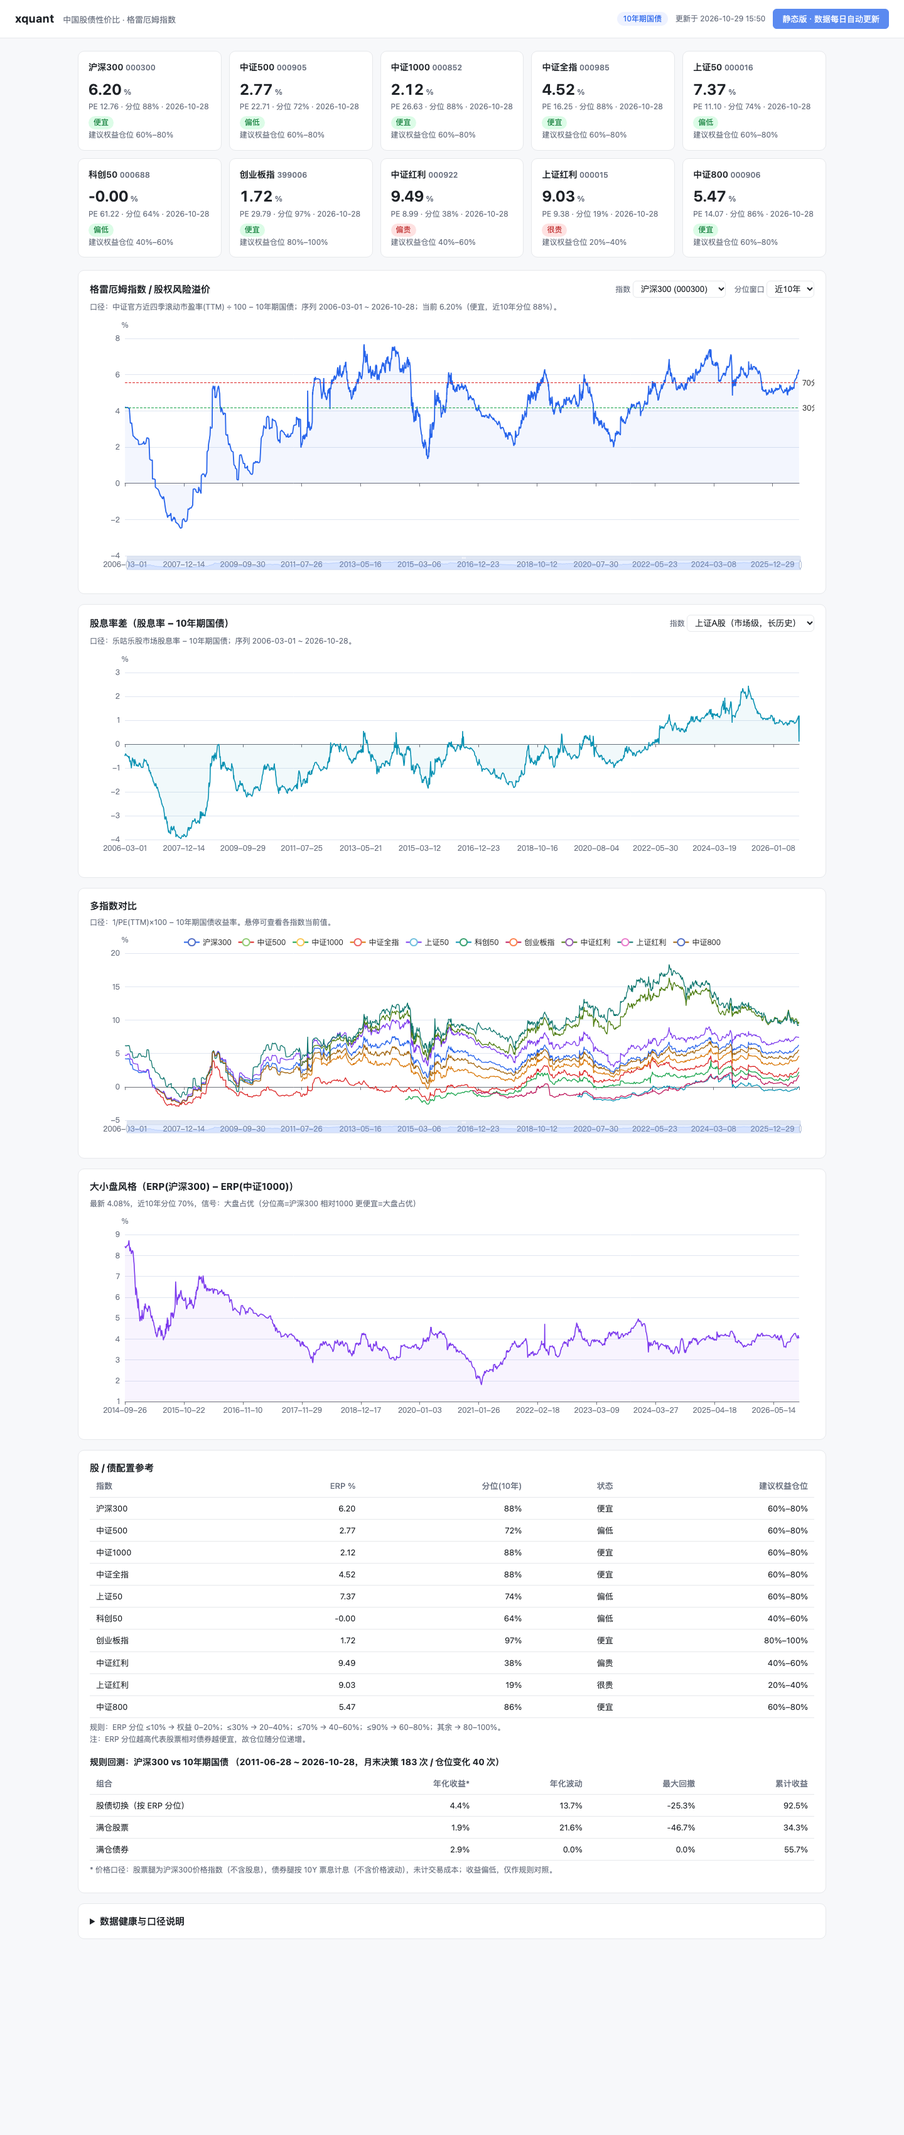
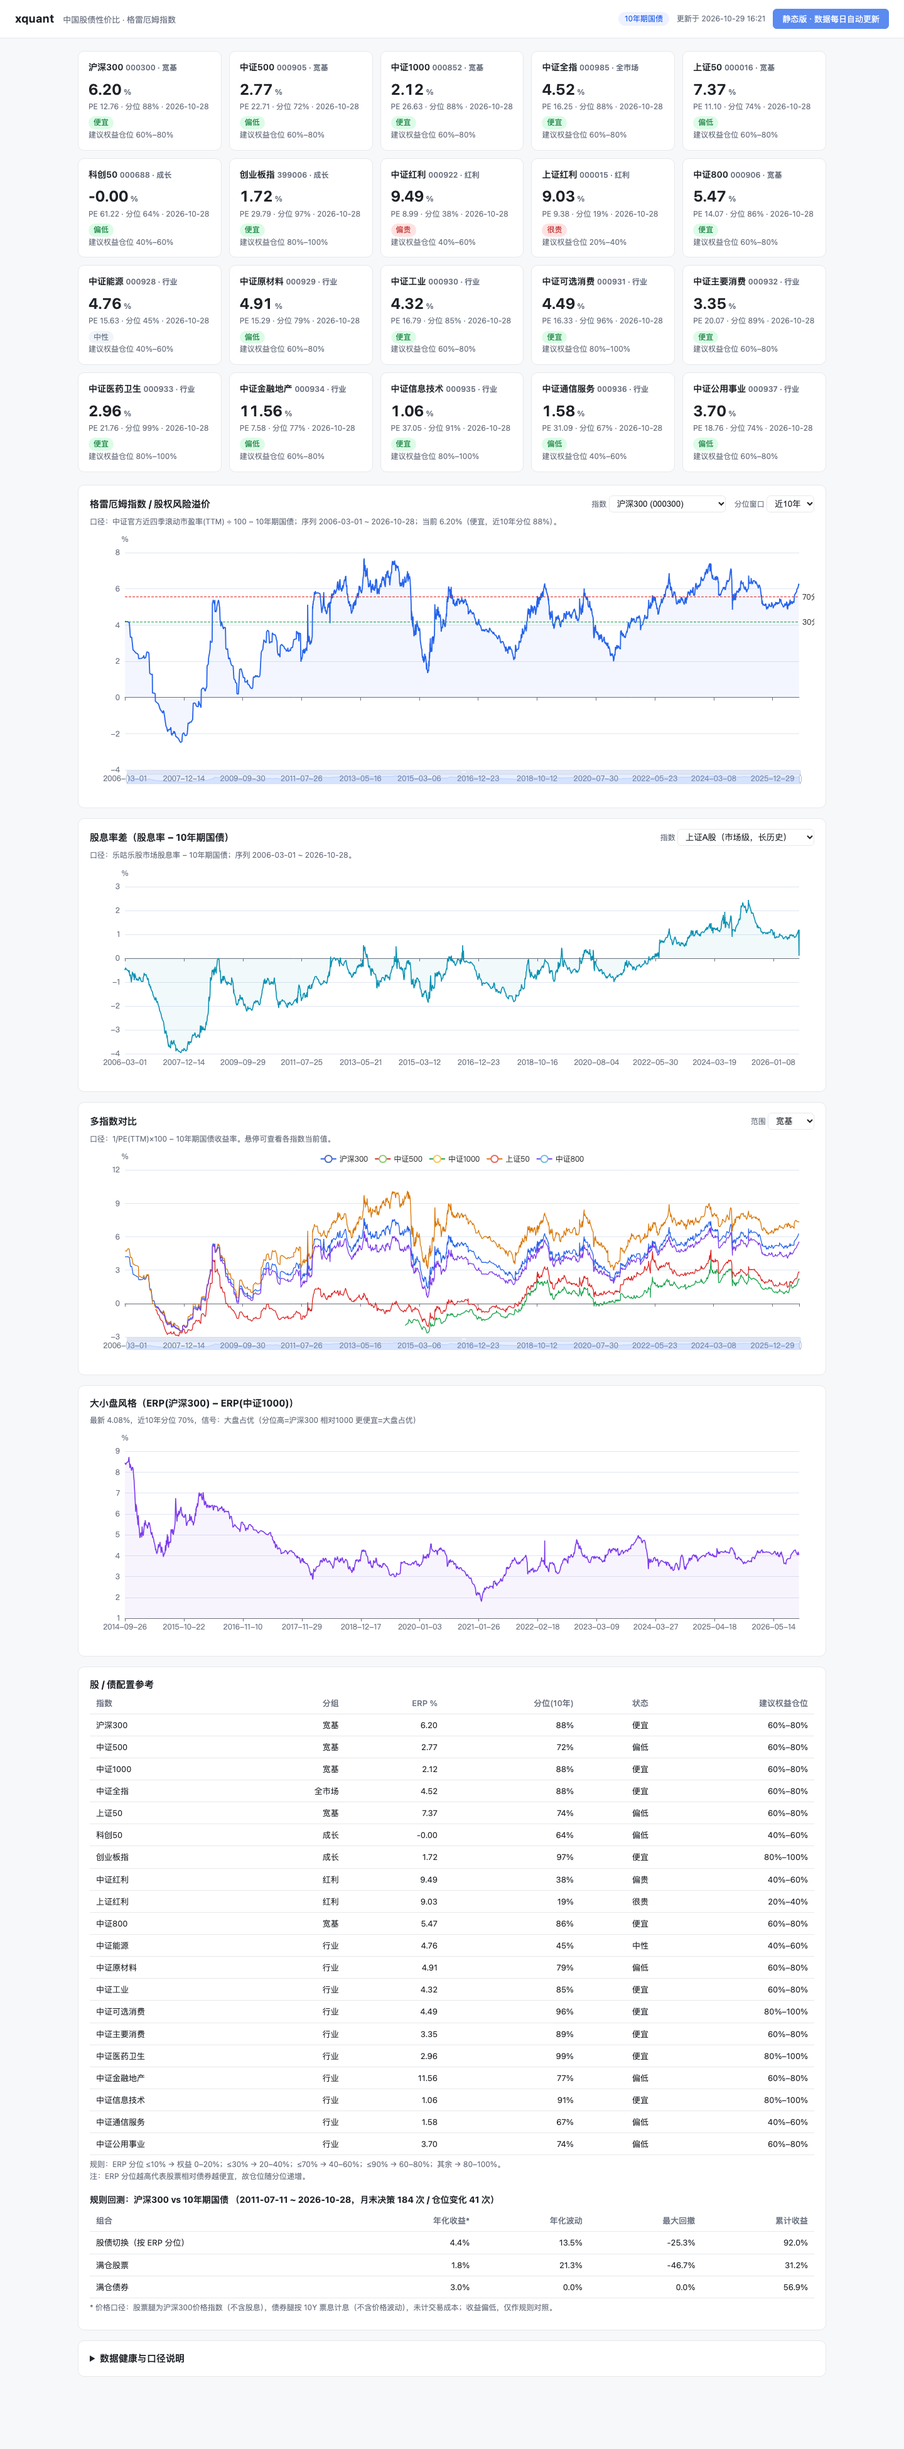
feat: 新增中证一级行业指数，价格与 PE 解耦入库
- parse_perf/peg 缺失时保留收盘价（修复沪深300 2012-01/02 等价格丢失），
  backfill 也补写 csindex_pe，历史价格可回溯到 2005
- 新增 10 个中证一级行业指数（000928-000937），分组为「行业」
- 卡片/配置表增加分组；ERP/股息率下拉按 optgroup 分组；
  多指数对比增加范围筛选（默认宽基，可切行业）
- 回测增加 1250 个交易日预热，避免 2006-2011 月频样本的早期信号失真
- 测试：parse_perf 保留空 PE 行；回测测试传 warmup

diff --git a/web/app.js b/web/app.js
@@ -60,7 +60,7 @@
       .map((i) => {
         const alloc = i.allocation ? `${i.allocation.equity_min}%–${i.allocation.equity_max}%` : "—";
         return `<div class="card">
-          <h3>${i.name} <span class="muted">${i.code}</span></h3>
+          <h3>${i.name} <span class="muted">${i.code} · ${i.group}</span></h3>
           <div class="value">${fmt(i.erp)}<span class="sub"> %</span></div>
           <div class="sub">PE ${fmt(i.pe)} · 分位 ${fmt(i.percentile, 0)}% · ${i.date || "—"}</div>
           <span class="badge ${tempClass(i.temperature)}">${i.temperature}</span>
@@ -184,11 +184,14 @@
 
   async function renderCompare() {
     const data = await dataCompare();
+    const groupEl = document.getElementById("compare-group");
+    const group = groupEl ? groupEl.value : "全部";
+    const list = data.series.filter((s) => group === "全部" || s.group === group);
     const palette = ["#2563eb", "#dc2626", "#16a34a", "#d97706", "#7c3aed", "#0891b2", "#be185d", "#4d7c0f", "#0f766e", "#a16207"];
     const c = chart("chart-compare");
-    const dates = data.series.length ? data.series[0].points.map((p) => p[0]) : [];
+    const dates = list.length ? list[0].points.map((p) => p[0]) : [];
     const dateSet = new Set(dates);
-    data.series.forEach((s) => s.points.forEach((p) => dateSet.add(p[0])));
+    list.forEach((s) => s.points.forEach((p) => dateSet.add(p[0])));
     const axis = Array.from(dateSet).sort();
     c.setOption({
       ...chartBase,
@@ -197,7 +200,7 @@
       xAxis: { type: "category", data: axis },
       yAxis: { type: "value", name: "%", scale: true },
       dataZoom: [{ type: "inside" }, { type: "slider", height: 14 }],
-      series: data.series.map((s, i) => {
+      series: list.map((s, i) => {
         const map = new Map(s.points.map((p) => [p[0], p[1]]));
         return {
           name: s.name, type: "line", showSymbol: false, connectNulls: true,
@@ -236,7 +239,7 @@
     const data = await dataAllocation();
     const rows = data.items
       .filter((i) => i.erp !== null)
-      .map((i) => `<tr><td>${i.name}</td><td>${fmt(i.erp)}</td><td>${fmt(i.percentile, 0)}%</td>
+      .map((i) => `<tr><td>${i.name}</td><td>${i.group}</td><td>${fmt(i.erp)}</td><td>${fmt(i.percentile, 0)}%</td>
         <td>${i.temperature}</td><td>${i.allocation ? i.allocation.equity_min + "%–" + i.allocation.equity_max + "%" : "—"}</td></tr>`)
       .join("");
     const bt = data.backtest || {};
@@ -262,7 +265,7 @@
       btHtml = `<p class="caption">回测样本不足，暂不展示（${bt.reason || "数据不足"}）。</p>`;
     }
     document.getElementById("allocation-table").innerHTML =
-      `<table><thead><tr><th>指数</th><th>ERP %</th><th>分位(10年)</th><th>状态</th><th>建议权益仓位</th></tr></thead>
+      `<table><thead><tr><th>指数</th><th>分组</th><th>ERP %</th><th>分位(10年)</th><th>状态</th><th>建议权益仓位</th></tr></thead>
        <tbody>${rows}</tbody></table>
        <p class="caption">规则：ERP 分位 ≤10% → 权益 0–20%；≤30% → 20–40%；≤70% → 40–60%；≤90% → 60–80%；其余 → 80–100%。<br>注：ERP 分位越高代表股票相对债券越便宜，故仓位随分位递增。</p>
        ${btHtml}`;
@@ -284,26 +287,46 @@
     const erp = document.getElementById("erp-index");
     const dy = document.getElementById("dy-index");
     if (erp.options.length) return;
-    indexes.forEach((i) => {
-      const o = document.createElement("option");
-      o.value = i.code; o.textContent = `${i.name} (${i.code})`;
-      erp.appendChild(o);
+    const groups = [...new Set(indexes.map((i) => i.group))];
+
+    // ERP 指数：按分组放到 optgroup
+    groups.forEach((g) => {
+      const og = document.createElement("optgroup");
+      og.label = g;
+      indexes.filter((i) => i.group === g).forEach((i) => {
+        const o = document.createElement("option");
+        o.value = i.code; o.textContent = `${i.name} (${i.code})`;
+        og.appendChild(o);
+      });
+      erp.appendChild(og);
     });
     erp.value = "000300";
+
+    // 股息率差：市场级长历史放最前，其余按分组
+    const market = document.createElement("optgroup");
+    market.label = "市场级（长历史）";
     ["MKT_SH", "MKT_SZ", "MKT_GEM", "MKT_STAR"].forEach((code) => {
       const name = { MKT_SH: "上证A股", MKT_SZ: "深证A股", MKT_GEM: "创业板", MKT_STAR: "科创板" }[code];
       const o = document.createElement("option");
       o.value = code; o.textContent = `${name}（市场级，长历史）`;
-      dy.appendChild(o);
+      market.appendChild(o);
     });
-    indexes.forEach((i) => {
-      const o = document.createElement("option");
-      o.value = i.code; o.textContent = `${i.name} (${i.code})`;
-      dy.appendChild(o);
+    dy.appendChild(market);
+    groups.forEach((g) => {
+      const og = document.createElement("optgroup");
+      og.label = g;
+      indexes.filter((i) => i.group === g).forEach((i) => {
+        const o = document.createElement("option");
+        o.value = i.code; o.textContent = `${i.name} (${i.code})`;
+        og.appendChild(o);
+      });
+      dy.appendChild(og);
     });
+
     erp.addEventListener("change", renderERP);
     dy.addEventListener("change", renderDY);
     document.getElementById("erp-window").addEventListener("change", renderERP);
+    document.getElementById("compare-group").addEventListener("change", renderCompare);
   }
 
   async function renderAll() {

diff --git a/web/index.html b/web/index.html
@@ -51,7 +51,21 @@
   </section>
 
   <section class="panel">
-    <div class="panel-head"><h2>多指数对比</h2></div>
+    <div class="panel-head">
+      <h2>多指数对比</h2>
+      <div class="controls">
+        <label>范围
+          <select id="compare-group">
+            <option value="宽基" selected>宽基</option>
+            <option value="行业">行业</option>
+            <option value="红利">红利</option>
+            <option value="成长">成长</option>
+            <option value="全市场">全市场</option>
+            <option value="全部">全部</option>
+          </select>
+        </label>
+      </div>
+    </div>
     <p class="caption">口径：1/PE(TTM)×100 − 10年期国债收益率。悬停可查看各指数当前值。</p>
     <div id="chart-compare" class="chart"></div>
   </section>

diff --git a/xquant/pipeline.py b/xquant/pipeline.py
@@ -15,9 +15,9 @@ from datetime import date, datetime, timedelta, timezone
 from pathlib import Path
 
 from xquant import bundle, metrics, store
-from xquant.config import (BUNDLE_PATH, DEFAULT_BOND_BENCHMARK, INDEXES, LEGULEGU_CODE_TO_SYMBOL,
-                            MARKET_DIVIDEND_SERIES, PERCENTILE_WINDOWS, SNAPSHOT_PATH,
-                            STYLE_BIG_CODE, STYLE_INDEX, STYLE_SMALL_CODE,
+from xquant.config import (BACKTEST_WARMUP_DAYS, BUNDLE_PATH, DEFAULT_BOND_BENCHMARK, INDEXES,
+                            LEGULEGU_CODE_TO_SYMBOL, MARKET_DIVIDEND_SERIES, PERCENTILE_WINDOWS,
+                            SNAPSHOT_PATH, STYLE_BIG_CODE, STYLE_INDEX, STYLE_SMALL_CODE,
                             allocation_advice, benchmark_by_key)
 from xquant.sources import chinabond, csindex, danjuan, legulegu
 
@@ -360,10 +360,12 @@ def _stats(navs: list[float], years: float | None = None) -> dict:
 
 
 def run_backtest(conn, index_code: str = "000300",
-                 bond_key: str = DEFAULT_BOND_BENCHMARK) -> dict:
+                 bond_key: str = DEFAULT_BOND_BENCHMARK,
+                 warmup: int = BACKTEST_WARMUP_DAYS) -> dict:
     """按 ERP 分位映射规则在 股票 与 债券 之间切换的规则回测。
 
     月末调仓：每月最后一个交易日按当月 ERP 的全历史分位决定次月权益权重（取仓位区间中值）。
+    前 BACKTEST_WARMUP_DAYS 个交易日只积累分位样本、不交易（约 5 年）。
     口径：股票腿为价格指数（不含股息），债券腿按当日 10Y 收益率计票息（不含价格波动）。
     """
     bench = benchmark_by_key(bond_key)
@@ -376,8 +378,9 @@ def run_backtest(conn, index_code: str = "000300",
     pcts = metrics.percentile_series(values, None)
     erp_pct = {d: p for (d, _), p in zip(erp, pcts) if p is not None}
     dates = sorted(set(erp_pct) & set(prices))
-    if len(dates) < 250:
+    if len(dates) < warmup + 250:
         return {"available": False, "reason": f"样本不足（{len(dates)} 天）"}
+    dates = dates[warmup:]
     month_last: dict[str, str] = {}
     for d in dates:
         month_last[d[:7]] = d
@@ -444,6 +447,10 @@ def _fetch_all(conn, progress=None) -> list[dict]:
         for spec in INDEXES:
             if isinstance(source, CsindexSource) and not spec.has_csindex:
                 continue  # 深证系指数中证没有数据，跳过以免超时
+            if isinstance(source, DanjuanSource) and not spec.danjuan_code:
+                continue  # 该指数没有蛋卷代码，避免产生空跑记录
+            if isinstance(source, LeguleguSource) and not spec.legulegu_symbol:
+                continue
             t0 = time.perf_counter()
             try:
                 data = source.fetch(spec.code)

diff --git a/xquant/sources/csindex.py b/xquant/sources/csindex.py
@@ -24,16 +24,22 @@ def _norm_date(value: str) -> str:
 
 
 def parse_perf(payload: dict) -> list[dict]:
+    """解析 index-perf。
+
+    价格与 PE 分开：``peg`` 缺失时（如沪深300 在 2004–2011-06、2012-01~09）
+    仍保留收盘价，只把该日 PE 记为 None；只要两者都没有才跳过。
+    """
     rows: list[dict] = []
     for item in payload.get("data") or []:
+        close = item.get("close")
         pe = item.get("peg")
-        if pe is None:
+        if close is None and pe is None:
             continue
         rows.append({
             "index_code": item.get("indexCode"),
             "date": _norm_date(item.get("tradeDate")),
-            "close": item.get("close"),
-            "pe": float(pe),
+            "close": close,
+            "pe": float(pe) if pe is not None else None,
         })
     return rows
 
@@ -107,7 +113,7 @@ def fetch_index(index_code: str, start_date: str | None = None) -> dict:
         "endDate": date.today().strftime("%Y%m%d")}, timeout=90)
     perf_rows = parse_perf(payload)
     prices = [{"index_code": index_code, "date": r["date"], "close": r["close"],
-               "source": "csindex"} for r in perf_rows]
+               "source": "csindex"} for r in perf_rows if r["close"] is not None]
     valuation: list[dict] = []
     try:
         valuation = fetch_indicator(index_code)
@@ -115,6 +121,6 @@ def fetch_index(index_code: str, start_date: str | None = None) -> dict:
         valuation = []
     return {
         "valuation": valuation,
-        "perf": [(r["date"], r["pe"]) for r in perf_rows],
+        "perf": [(r["date"], r["pe"]) for r in perf_rows if r["pe"] is not None],
         "prices": prices,
     }

diff --git a/xquant/config.py b/xquant/config.py
@@ -60,6 +60,17 @@ INDEXES: list[IndexSpec] = [
     IndexSpec("000922", "中证红利", "红利", "SH000922", None),
     IndexSpec("000015", "上证红利", "红利", "SH000015", "上证红利"),
     IndexSpec("000906", "中证800", "宽基", "SH000906", "中证800"),
+    # 中证一级行业指数（中证官网 PE 日频自 2011-06 起，价格自 2004 起）
+    IndexSpec("000928", "中证能源", "行业"),
+    IndexSpec("000929", "中证原材料", "行业"),
+    IndexSpec("000930", "中证工业", "行业"),
+    IndexSpec("000931", "中证可选消费", "行业"),
+    IndexSpec("000932", "中证主要消费", "行业"),
+    IndexSpec("000933", "中证医药卫生", "行业"),
+    IndexSpec("000934", "中证金融地产", "行业"),
+    IndexSpec("000935", "中证信息技术", "行业"),
+    IndexSpec("000936", "中证通信服务", "行业"),
+    IndexSpec("000937", "中证公用事业", "行业"),
 ]
 
 # 乐咕乐股指数 PE 的 symbol → 中证代码映射（乐咕只支持部分指数）
@@ -88,6 +99,9 @@ DEFAULT_BOND_BENCHMARK = "bond10y"
 
 # 规则回测使用的指数
 BACKTEST_INDEX = "000300"
+# 回测预热：至少积累约 5 年 ERP 历史后再按分位交易，
+# 避免 2006–2011 年（乐咕月频口径、样本短）的早期信号失真
+BACKTEST_WARMUP_DAYS = 1250
 
 # 分位窗口按「日历年份」定义（None=全历史）。序列是交易日，不能用交易日数近似年份：
 # 旧的 1095/1825/3650 实际跨 4.4/7.3/14.6 年，会把「近10年」算成近15年。

diff --git a/xquant/cli.py b/xquant/cli.py
@@ -68,10 +68,17 @@ def cmd_backfill(args) -> int:
                 continue
             if data["valuation"]:
                 store.upsert_valuation(conn, data["valuation"])
+            if data["perf"]:
+                store.upsert_valuation(conn, [
+                    {"index_code": spec.code, "date": d, "source": "csindex_pe",
+                     "pe": pe, "pe_total_shares": None, "pe_calc_shares": None, "pb": None,
+                     "dividend_yield": None, "dividend_yield_total_shares": None}
+                    for d, pe in data["perf"]
+                ])
             if data["prices"]:
                 store.upsert_price(conn, data["prices"])
             print(f"{spec.code} {spec.name}: valuation={len(data['valuation'])} "
-                  f"perf={len(data['perf'])}")
+                  f"pe={len(data['perf'])} prices={len(data['prices'])}")
     finally:
         conn.close()
     return 0

diff --git a/tests/test_sources.py b/tests/test_sources.py
@@ -12,9 +12,12 @@ PERF_PAYLOAD = {
 }
 
 
-def test_parse_perf_maps_peg_to_pe_and_skips_null():
+def test_parse_perf_keeps_price_when_peg_missing():
     rows = csindex.parse_perf(PERF_PAYLOAD)
-    assert rows == [{"index_code": "000300", "date": "2024-01-02", "close": 3386.35, "pe": 11.2}]
+    assert rows == [
+        {"index_code": "000300", "date": "2024-01-02", "close": 3386.35, "pe": 11.2},
+        {"index_code": "000300", "date": "2024-01-03", "close": 3378.30, "pe": None},
+    ]
 
 
 def test_parse_perf_accepts_empty():

diff --git a/tests/test_pipeline.py b/tests/test_pipeline.py
@@ -94,7 +94,7 @@ def test_run_backtest_computes_stats(conn):
     store.upsert_price(conn, [
         {"index_code": "000300", "date": d, "close": 4000.0, "source": "csindex"} for d in days])
     pipeline.compute_metrics(conn)
-    bt = pipeline.run_backtest(conn)
+    bt = pipeline.run_backtest(conn, warmup=60)
     assert bt["available"] is True
     assert bt["strategy"]["cagr"] is not None
     assert bt["equity_only"]["cagr"] is not None

diff --git a/README.md b/README.md
@@ -2,7 +2,7 @@
 
 本地运行的 Web 仪表盘：**格雷厄姆指数（ERP）**、**股息率差**、历史分位温度、大小盘风格利差、股/债配置参考。
 
-覆盖指数：沪深300、中证500、中证1000、中证全指、上证50、科创50、创业板指、中证红利、上证红利、中证800。
+覆盖指数：沪深300、中证500、中证1000、中证全指、上证50、科创50、创业板指、中证红利、上证红利、中证800，以及 10 个中证一级行业指数（能源、原材料、工业、可选消费、主要消费、医药卫生、金融地产、信息技术、通信服务、公用事业）。
 
 ![界面](docs/screenshot.png)
 
@@ -39,7 +39,7 @@ python3.12 -m venv .venv
 | 股息率差 | `指数股息率 − 10年期国债收益率` |
 | 风格利差 | `ERP(沪深300) − ERP(中证1000)`，取近 10 年分位；分位高=大盘占优 |
 | 配置参考 | ERP 分位越高（股票相对债券越便宜）→ 建议权益仓位越高（规则映射，见 `xquant/config.py` 的 `ALLOCATION_MAP`） |
-| 规则回测 | 按上述映射在沪深300 与 10Y 国债间月末切换，对比满仓股票 / 满仓债券。股票为价格指数、债券只计票息，属**价格口径**，不含股息与债券价格波动 |
+| 规则回测 | 按上述映射在沪深300 与 10Y 国债间月末切换，对比满仓股票 / 满仓债券。前 1250 个交易日只积累分位样本、不交易；股票为价格指数、债券只计票息，属**价格口径**，不含股息与债券价格波动 |
 
 ## 数据源
 
@@ -100,7 +100,9 @@ tests/               pytest 单测（72 个）
 
 - 股息率历史较短：中证只提供近 20 日窗口，指数级股息率序列从 2026-10-22 起累积；市场级（上证A股/深证A股/创业板/科创板）股息率有 2005→ 的长历史，可作替代视角。
 - 规则回测为价格口径：股票腿不含股息，债券腿只按票息计息、不含久期价格波动，也未计交易成本；因此各组收益都偏低，只适合做规则方向对照。
-- 2006–2011 年的 PE 来自乐咕月频序列（中证官方 TTM 日频从 2011-06 起），全历史分位会混入这一段口径。
+- 2006–2011 年的 PE 来自乐咕月频序列（中证官方 TTM 日频从 2011-06 起），全历史分位会混入这一段口径；回测前 1250 个交易日为预热，不交易。
+- 行业指数（000928–000937）的 PE 日频同样从 2011-06 起，价格可回溯到 2005；因此行业分位最长约 15 年。
+- 中证 `index-perf` 有个别日期 `peg` 为空（如沪深300 2012-01~09），现在价格独立入库，不再随 PE 缺失一起丢失。
 - 创业板指 PE 为蛋卷周频、按交易日前值填充；中证1000 / 中证全指 / 科创50 的历史分别从 2014-09 / 2011-07 / 2019-12 起。
 - 创业板指（399006）属深证系，中证无数据，用蛋卷周频 PE（2016→）前值填充。
 - 各家 PE 方法不同（中证/蛋卷/乐咕），本项目固定用中证官方口径做主序列，其余仅作校验与长历史补齐。

diff --git a/docs/superpowers/specs/2026-10-22-xquant-design.md b/docs/superpowers/specs/2026-10-22-xquant-design.md
@@ -301,3 +301,15 @@ ERP = `1/PE − 债券收益率`，是 PE 的倒数类指标：**分位越高 = 
 3. **风格利差改为 `ERP(沪深300) − ERP(中证1000)`**，信号统一为「分位高=大盘占优」。
 4. **回测明确标注价格口径**：股票不含股息、债券只计票息；年化改用实际日历跨度；
    「月末决策 N 次 / 仓位变化 M 次」分开统计。
+
+### 2026-10-29（三）：价格独立入库 + 行业指数
+
+1. **`index-perf` 的收盘价与 PE 解耦**：`peg` 为空时仍保留 `close`（沪深300 在
+   2004–2011-06、2012-01~09 都有价格无 PE）。此前 2012-01/02 的价格被一起丢弃，
+   回测少两个月；修复后价格可回溯到 2005。
+2. **新增 10 个中证一级行业指数**（000928–000937）：能源、原材料、工业、可选消费、
+   主要消费、医药卫生、金融地产、信息技术、通信服务、公用事业。PE 日频自 2011-06。
+3. **界面**：卡片与配置表增加「分组」；ERP/股息率下拉按 optgroup 分组；
+   多指数对比增加「范围」筛选（默认宽基，可切行业）。
+4. **回测预热**：前 1250 个交易日只积累分位样本、不交易，避免 2006–2011 年
+   （乐咕月频、样本短）的早期信号失真；回测区间 2011-07 → 2026-10。

diff --git a/docs/2026-10-22-acceptance.md b/docs/2026-10-22-acceptance.md
@@ -100,3 +100,13 @@ ERP 分位方向此前被当作 PE 分位使用，导致「温度」与「建议
 - 回测年化改用实际日历跨度（价格口径）：股债切换 4.36%、满仓股票 1.94%、满仓债券 2.93%；
   最大回撤 −25.3% / −46.7% / 0%。
 - `pytest`：72 passed。
+
+## 9. 修订（2026-10-29 第三次）
+
+- 修复 `index-perf` 价格随 `peg` 缺失一起丢失的问题：沪深300 价格由 3658 条增至 5298 条，
+  2012-01/02 已补齐，回测月末决策 184 次（此前 183 次）。
+- 新增 10 个中证一级行业指数，当前 10 年分位：可选消费 96%、医药卫生 99%、信息技术 91%、
+  工业 85%、主要消费 89%、原材料 79%、金融地产 77%、公用事业 74%、通信服务 67%、能源 45%。
+- 回测增加 1250 个交易日预热，区间 2011-07-11 → 2026-10-28（价格口径）：
+  股债切换 4.36% / −25.3%，满仓股票 1.79% / −46.7%，满仓债券 2.99% / 0%。
+- 页面新增「分组」列、多指数对比「范围」筛选；`pytest`：72 passed。
